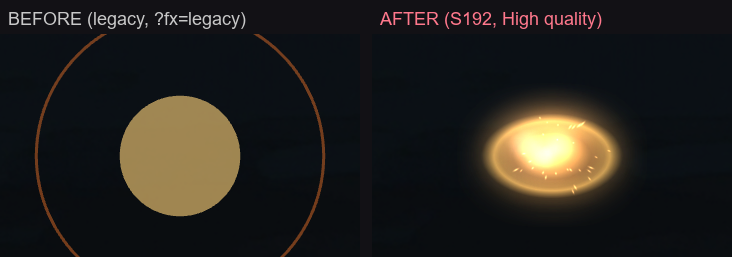
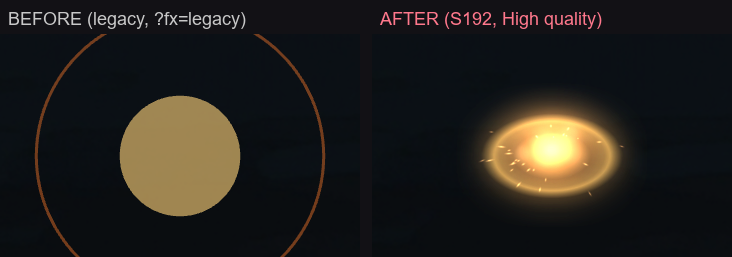
docs(s192/visuals): fix-round screenshots (aura fades with the tower, blasts on HIGH) + plan/progress corrected for V-1/V-2

Changed region(s): [[0.6913, 0.4981, 0.8115, 0.6848], [0.7814, 0.4669, 0.8115, 0.4981]]

diff --git a/.claude/plans/S192_VISUALS_PLAN.md b/.claude/plans/S192_VISUALS_PLAN.md
@@ -65,7 +65,7 @@ fight. Bloom is one full-layer pass on HIGH and nothing on LOW.
 |---|---|---|---|---|---|---|---|
 | 0 | V01 | **FX substrate** | none | section 3 | M | pooled sprites; one bloom pass on HIGH | ✅ BUILT |
 | 1 | V02 | **Vlad's life siphon** | `bossAuras.ts:583-613`: one growing circle and 18 solid 3.4 px dots sliding inward | ~110 crimson motes on 3 spiral arms that converge on his chest with stretched streak trails, additive; a pulsing hot core; a dark-red ground stain; at the heal moment a burst ring, 24 outward sparks and a ground **ShockwaveFilter** ripple (HIGH); bloom on | M | ~110 sprites while the 0.6 s flash lasts; 0 otherwise | ✅ PILOT |
-| 2 | V03 | **Building aura** behind every spawner and tower | `spawnerZoneRenderer.ts:156-211`: a 6-11 % disc, three 2 px rings, bond strokes, midpoint beads and a core dot | owner-tinted **ground light pool** (soft additive disc that breathes) plus 14-28 slow **rising embers** around the footprint and a faint base rim. ⛔ No rings, bond strokes or core dot (S183: those faded under the building art and stay faded). The new glow stays visible around a covered building, so the tower reads as alive | M | ~20 sprites a tower | ✅ PILOT |
+| 2 | V03 | **Building aura** behind every spawner and tower | `spawnerZoneRenderer.ts:156-211`: a 6-11 % disc, three 2 px rings, bond strokes, midpoint beads and a core dot | owner-tinted **ground light pool** (soft additive disc that breathes) plus 14-28 slow **rising embers** around the footprint and a faint base rim. ⛔ No rings, bond strokes or core dot. ⛔ Audit V-1: every alpha is scaled by the cover alpha, so like the old aura it shows while a tower is being built or crumbling and fades out under a finished building (S183) | M | ~20 sprites a tower | ✅ PILOT |
 | 3 | V04 | **Detonations** (hub blast, zombie death raze, suicide goblin, drone, stink tower) | `effects/bombExplode.ts:17-35`: one orange stroke ring and one flat disc | white-hot flash sprite (2 frames), fireball core, 28 ember sparks thrown outward with gravity, 8 dark smoke puffs rising, a soft shock ring at the true radius, and a ground **ShockwaveFilter** on HIGH. Size scales with `radius` (70 px goblin → 380 px zombie) | M | ~40 sprites per blast for 0.6 s | ✅ BUILT |
 | 4 | V05 | **Zombie rot aura** | `bossAuras.ts:453-474`: 14 flat green circles over a dark disc | soft textured bubbles that swell and **pop into 3 droplets**, plus 10 rising green miasma wisps, additive, over the same dark scorch; still stops while he is stunned | S | ~40 sprites a boss | ✅ BUILT |
 | 5 | V06 | **Castle gun shot** | `raceMotifs.ts:285`: a flat bolt | race-coloured bolt: hot white core, soft glow halo, 6-mote trail, and an impact spark burst on arrival | S | ~12 sprites a shot | ✅ BUILT |

diff --git a/.claude/plans/S192_PROGRESS_visuals.md b/.claude/plans/S192_PROGRESS_visuals.md
@@ -93,8 +93,8 @@ case, +1.6 ms.
   everyone) saves 12.1 KiB.
 
 ### Owner LOOK items (MINE, not ruled)
-- The aura's light pool and embers stay visible AROUND a finished building. The S183 ruling faded the rings, strokes
-  and core dot, and those stay faded. He has not seen this look yet.
+- ~~The aura stays visible around a finished building~~. REVERSED by audit V-1: that contradicted S183 (*the aura
+  fades with the building on every tower*). It now fades with the cover alpha like the legacy aura did.
 - The siphon numbers (96 motes, 3 arms, 118 px, chest −64 px, landing at 78 %) are mine.
 
 ## STEP 3: the next three (owner refinement: *"we can do a few … cue all the other upgrades for the following sessions"*)
@@ -136,3 +136,16 @@ No wire, hash or sim change in any commit. **PROTOCOL_VERSION 54, no bump.**
 - The vitest run rewrites `src/state/spawners/__snapshots__/pentagramBuildability.test.ts.snap` with LF line endings
   (no content change) on every run. That is pre-existing, and it was reverted before each commit. Ruled benign: it
   is CRLF churn, not a snapshot change.
+
+## FIX ROUND (independent audit, FIX FIRST)
+- **V-1 (MED)** `d5584f3`: `auraFx` takes `cover` (`coverAlphaForPrim(anchor.id)`). Pool and ember alpha are scaled
+  by it, and nothing is drawn below 0.02. `towerCover.test.ts` now counts the single `auraFx(` call (its last arg must
+  be the cover alpha) and the 3 emits in `auraFx.ts` (each alpha must end in `* cover`). Both were mutation-checked
+  red. Pure tests: cover 0 draws nothing, cover 0.5 gives exactly half alpha.
+- **V-2 (LOW-MED)** `39e2808`: `fxTop` (still one roll-call entry at 20) is now a Container holding
+  [`fxTopShade` (normal blend, no filter), `fxTopLight` (additive, bloomed)]. Blast smoke moved to shade. A guard says
+  no normal-blend emit may appear on `top` in any layout (mutation-checked red). The "everything is light" comment
+  is corrected.
+- Screenshots re-taken: `pilot2-aura-fades-as-the-tower-finishes.png` (+0 / +30 / +60 / +125 ticks after a build,
+  plus a finished tower) replaces `pilot2-building-aura-*`, and the `v04-*` blasts were re-shot on HIGH. The Desktop
+  `index.html` is updated.
